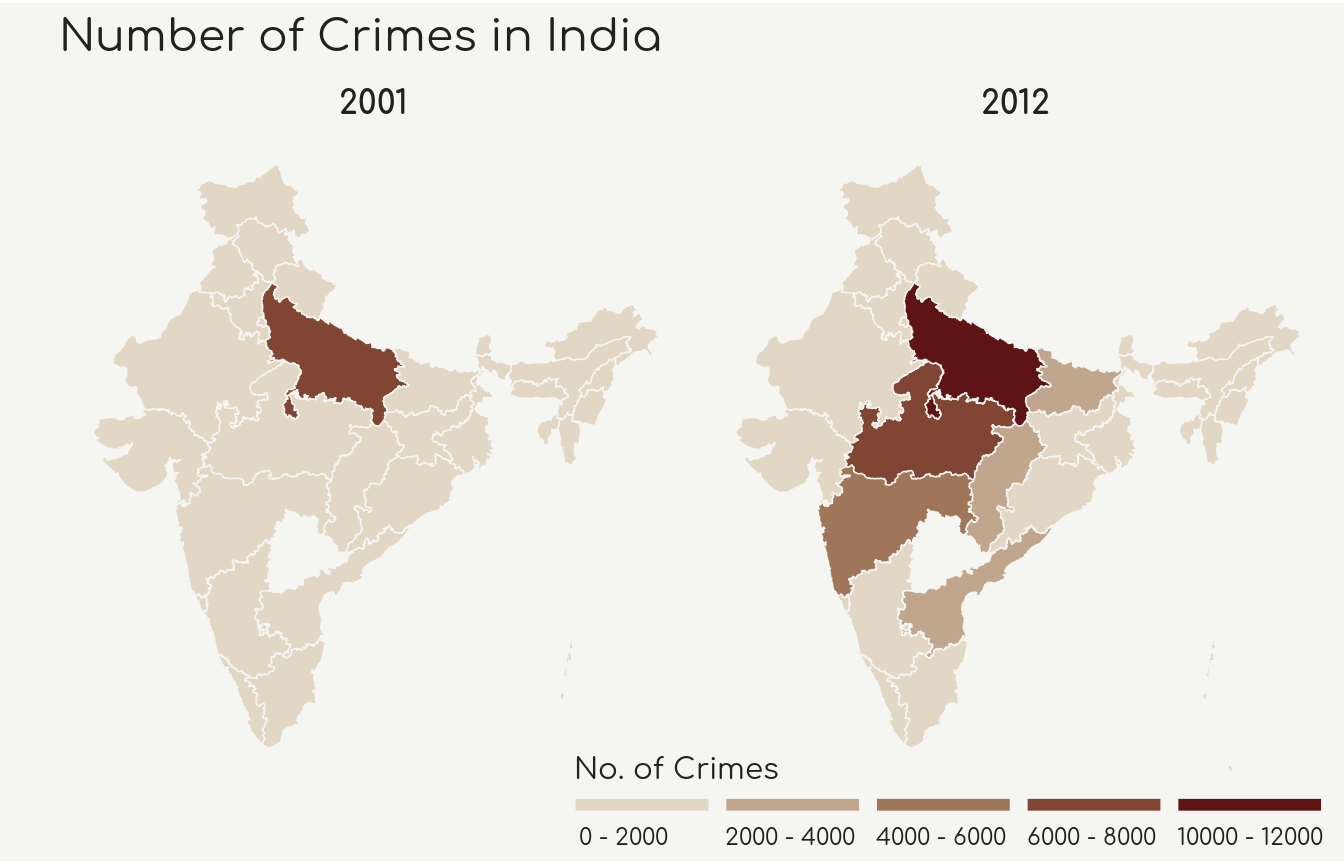
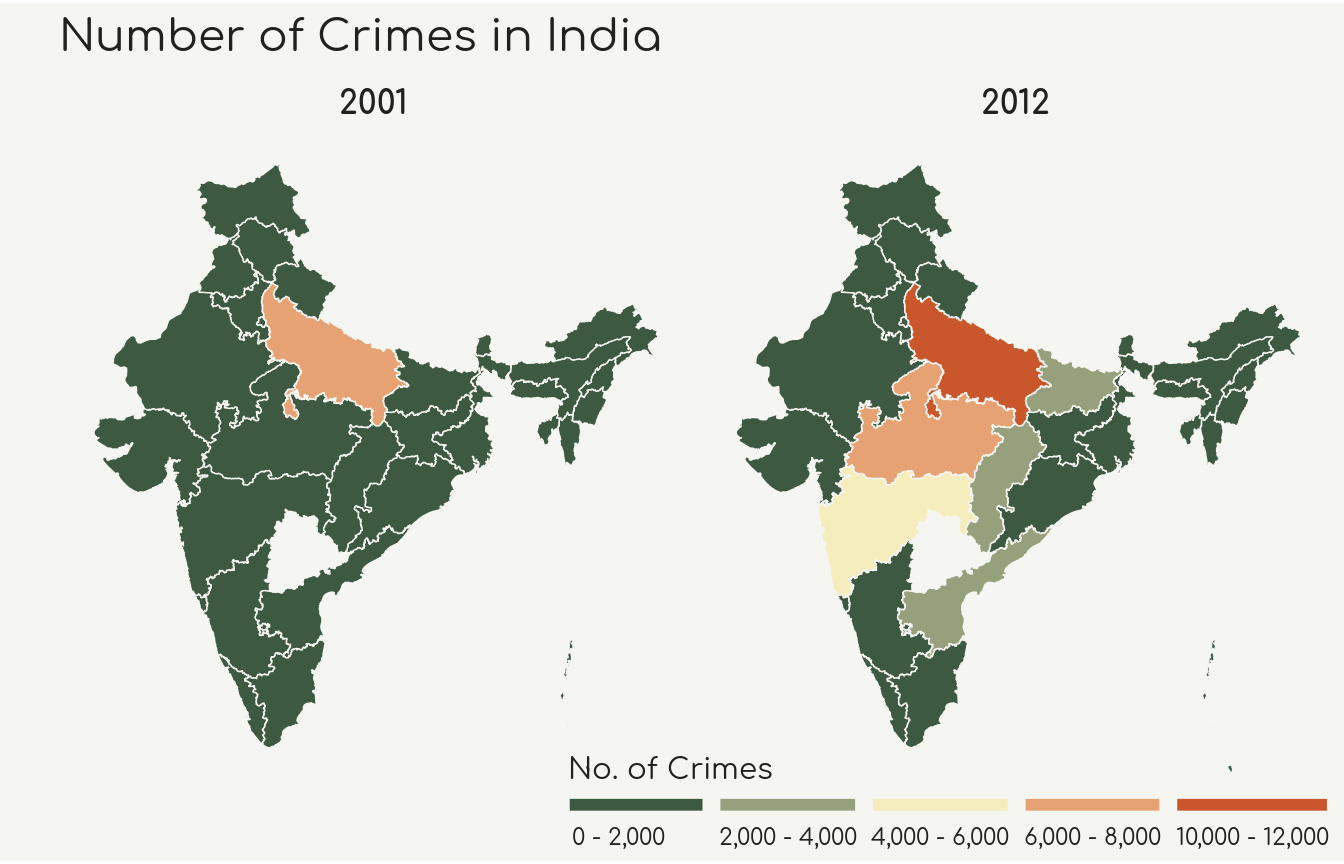
changed color palette for maps, levelplot

Changed region(s): [[0.0625, 0.1875, 0.5, 0.875], [0.5312, 0.1875, 0.9688, 0.875], [0.4062, 0.875, 1.0, 1.0]]

diff --git a/content/blog/2018-02-22-crime-against-children-in-india.html b/content/blog/2018-02-22-crime-against-children-in-india.html
@@ -268,7 +268,7 @@ label_start &lt;- c(0,10^1,10^2,10^3)
 label_end &lt;- c(10^1, 10^2, 10^3, 10^4)
 
 level_data$bin &lt;- cut(level_data$Count, breaks=c(0,10^1,10^2,10^3,10^4), 
-                      labels=c(paste0(label_start,&quot; - &quot;,label_end)), 
+                      labels=c(paste0(scales::comma(label_start),&quot; - &quot;,scales::comma(label_end))), 
                       include.lowest = TRUE)
 
 level_data %&gt;% 
@@ -280,11 +280,17 @@ level_data %&gt;%
           plot.title = element_text(hjust = 0, face = &quot;bold&quot;),
           plot.margin = margin(10,70,10,20),
           legend.position = &quot;top&quot;) +
-  scale_fill_manual(values = pal, name = &quot;No. of Crimes (log scale)&quot;,
-                    guide = guide_legend(keyheight = unit(2, units = &quot;mm&quot;), 
-                                         keywidth = unit(18, units = &quot;mm&quot;), 
-                                         title.position = &quot;top&quot;, label.position = &quot;bottom&quot;,
-                                         title.hjust = 0, label.hjust = 0.1, nrow = 1)) +
+    scale_fill_carto_d(palette = &quot;Fall&quot;, name = &quot;No. of Crimes (log scale)&quot;,
+                       guide = guide_legend(keyheight = unit(2, units = &quot;mm&quot;), 
+                                            keywidth = unit(18, units = &quot;mm&quot;), 
+                                            title.position = &quot;top&quot;, label.position = &quot;bottom&quot;,
+                                            title.hjust = 0, label.hjust = 0.1, nrow = 1)) +
+
+  # scale_fill_manual(values = pal, name = &quot;No. of Crimes (log scale)&quot;,
+  #                   guide = guide_legend(keyheight = unit(2, units = &quot;mm&quot;), 
+  #                                        keywidth = unit(18, units = &quot;mm&quot;), 
+  #                                        title.position = &quot;top&quot;, label.position = &quot;bottom&quot;,
+  #                                        title.hjust = 0, label.hjust = 0.1, nrow = 1)) +
     labs(x = &quot;&quot;, y = &quot;&quot;,
          title = &quot;Number of Crimes by State - 2012&quot;,
          subtitle = &quot;&quot;)</code></pre>
@@ -429,7 +435,7 @@ label_start &lt;- c(seq(0,10000,2000))
 label_end &lt;- c(seq(2000,12000,2000))
 
 final.plt.01_12$bin &lt;- cut(final.plt.01_12$count, breaks=c(seq(0, 12000, 2000), Inf), 
-                      labels=c(paste0(label_start,&quot; - &quot;,label_end), &quot;12000+&quot;), 
+                      labels=c(paste0(scales::comma(label_start),&quot; - &quot;,scales::comma(label_end)), &quot;12000+&quot;), 
                       include.lowest = TRUE)
 
 final.plt.01_12 %&gt;%
@@ -437,7 +443,7 @@ final.plt.01_12 %&gt;%
   ggplot() +
   geom_polygon(aes(x = long, y = lat, fill = bin, group = group), color = my_bkgd, size = 0.25) + 
   coord_map() +
-  scale_fill_manual(values = pal, name=&quot;No. of Crimes&quot;,
+  scale_fill_carto_d(palette = &quot;Fall&quot;, name=&quot;No. of Crimes&quot;, 
                     guide = guide_legend(keyheight = unit(2, units = &quot;mm&quot;), 
                                          keywidth = unit(18, units = &quot;mm&quot;), 
                                          title.position = &quot;top&quot;, label.position = &quot;bottom&quot;,
@@ -459,16 +465,16 @@ final.plt.01_12 %&gt;%
   base_family = my_font, 
   base_colour =  &quot;#22211d&quot;,
   core = list(fg_params=list(hjust = 0, x = 0.1),
-              bg_params=list(fill = pal[1])),
+              bg_params=list(fill = &quot;#f6edbd&quot;)),
   colhead = list(fg_params=list(col = my_bkgd, fontface = &quot;bold.italic&quot;, hjust = 0, x = 0.1),
-                 bg_params=list(fill = pal[5]))
+                 bg_params=list(fill = &quot;#3d5941&quot;))
  )
 
 label_start &lt;- c(seq(0,3000,1500))
 label_end &lt;- c(seq(1500,4500,1500))
 
 final.plt.med$bin &lt;- cut(final.plt.med$median, breaks=c(seq(0,4500,1500), Inf), 
-                      labels=c(paste0(label_start,&quot; - &quot;,label_end), &quot;4500+&quot;), 
+                      labels=c(paste0(scales::comma(label_start),&quot; - &quot;,scales::comma(label_end)), &quot;4500+&quot;), 
                       include.lowest = TRUE)
 
 final.plt.med &lt;- final.plt.med %&gt;% filter(!is.na(bin))
@@ -488,11 +494,17 @@ median_plot &lt;- ggplot() +
                color = my_bkgd, size = 0.25) + 
   geom_text(data=cnames, aes(long, lat, label = state), size=2, color = &quot;#22211d&quot;, family = my_font) +
   coord_map() +
-  scale_fill_manual(values = pal[1:4], name=&quot;Median&quot;,
+  scale_fill_carto_d(palette = &quot;Fall&quot;, name=&quot;Median&quot;,
                     guide = guide_legend(keyheight = unit(2, units = &quot;mm&quot;), 
                                          keywidth = unit(18, units = &quot;mm&quot;), 
                                          title.position = &quot;top&quot;, label.position = &quot;bottom&quot;,
                                          title.hjust = 0, label.hjust = 0.1, nrow = 1)) +
+
+  # scale_fill_manual(values = pal[1:4], name=&quot;Median&quot;,
+  #                   guide = guide_legend(keyheight = unit(2, units = &quot;mm&quot;), 
+  #                                        keywidth = unit(18, units = &quot;mm&quot;), 
+  #                                        title.position = &quot;top&quot;, label.position = &quot;bottom&quot;,
+  #                                        title.hjust = 0, label.hjust = 0.1, nrow = 1)) +
     labs(title=&quot;Median Number of Crimes Against Children&quot;, 
        subtitle = &quot;By State, 2001 to 2012&quot;,
        x = &quot;&quot;, y = &quot;&quot;) +
